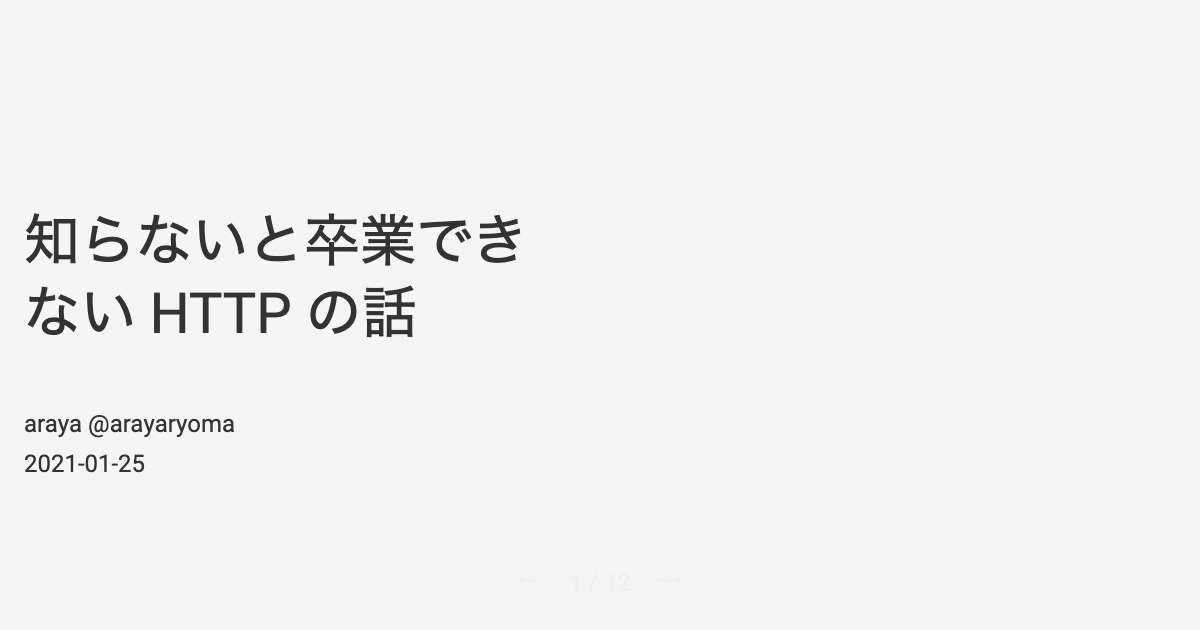
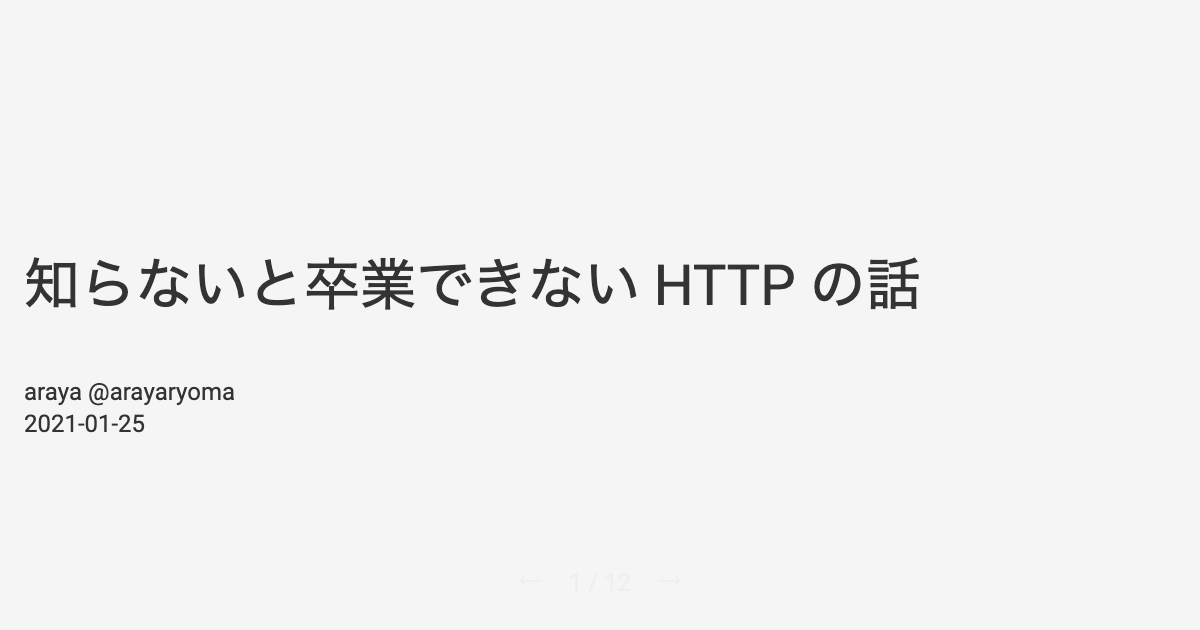
Updates

Changed region(s): [[0.0, 0.3317, 0.7708, 0.5429], [0.0, 0.6032, 0.2158, 0.6937], [0.0, 0.7238, 0.1233, 0.754]]

diff --git a/main.f50adb57fa4b0c32ecf3.bundle.js b/main.f50adb57fa4b0c32ecf3.bundle.js
@@ -1,0 +1,1 @@
+(self.webpackChunkonoue_lab_2020=self.webpackChunkonoue_lab_2020||[]).push([[179],{8344:(t,e,l)=>{"use strict";l.r(e),l.d(e,{default:()=>o,fusumaProps:()=>m,slides:()=>k});var a=l(7401),r=function(t){var e,l;return a.createElement("figure",{style:{maxWidth:null!==(e=t.width)&&void 0!==e?e:"100%",height:null!==(l=t.height)&&void 0!==l?l:"auto",margin:"center"===t.position?"0 auto":"0"}},a.createElement("img",{src:t.src,alt:t.alt}),t.caption&&a.createElement("figcaption",null,t.caption))},n=l(9332);function p(t,e){if(null==t)return{};var l,a,r=function(t,e){if(null==t)return{};var l,a,r={},n=Object.keys(t);for(a=0;a<n.length;a++)l=n[a],e.indexOf(l)>=0||(r[l]=t[l]);return r}(t,e);if(Object.getOwnPropertySymbols){var n=Object.getOwnPropertySymbols(t);for(a=0;a<n.length;a++)l=n[a],e.indexOf(l)>=0||Object.prototype.propertyIsEnumerable.call(t,l)&&(r[l]=t[l])}return r}function i(t,e,l){return e in t?Object.defineProperty(t,e,{value:l,enumerable:!0,configurable:!0,writable:!0}):t[e]=l,t}function u(){return(u=Object.assign||function(t){for(var e=1;e<arguments.length;e++){var l=arguments[e];for(var a in l)Object.prototype.hasOwnProperty.call(l,a)&&(t[a]=l[a])}return t}).apply(this,arguments)}var k=[function(t){return(0,n.kt)(a.Fragment,null,(0,n.kt)("h1",null,"知らないと卒業できない HTTP の話"),(0,n.kt)("p",null,"araya @arayaryoma"),(0,n.kt)("p",null,"2021-01-25"))},function(t){return(0,n.kt)(a.Fragment,null,(0,n.kt)("h2",null,"自己紹介"),(0,n.kt)("p",null,(0,n.kt)("img",{src:"https://araya.dev/assets/purple-cat.png"})),(0,n.kt)("p",null,"araya"),(0,n.kt)("ul",null,(0,n.kt)("li",{parentName:"ul"},"Twitter: ",(0,n.kt)("a",u({parentName:"li"},{href:"https://twitter.com/arayaryoma"}),"@arayaryoma")),(0,n.kt)("li",{parentName:"ul"},"GitHub: ",(0,n.kt)("a",u({parentName:"li"},{href:"https://github.com/arayaryoma"}),"@arayaryoma")),(0,n.kt)("li",{parentName:"ul"},"職業: 報道・出版系の会社で Web エンジニア")))},function(t){return(0,n.kt)(a.Fragment,null,(0,n.kt)("h2",null,"なんで来たの？"),(0,n.kt)("p",null,"視聴だけするつもりだったけど召喚されました。 😈🔯"),(0,n.kt)("p",null,"5 分で HTTP とは何かみたいな話をします。"),(0,n.kt)("p",null,"卒業と関係するかどうかは尾上さんに聞いてください(多分しない)。"),(0,n.kt)(r,i({src:l(933),caption:"ゆるゆるな発表者登録のシステム",mdxType:"Figure"},"mdxType","Figure")),(0,n.kt)("p",null,"特に物は作ってないので講義っぽくなっちゃった。ごめんなさい。"))},function(t){return(0,n.kt)(a.Fragment,null,(0,n.kt)("h2",null,"HTTP って？"),(0,n.kt)("p",null,"Hyper Text Transfer Protocol。 Web におけるクライアント-サーバー間のリクエスト/レスポンスのやり取りで主に用いられる",(0,n.kt)("strong",{parentName:"p"},"通信プロトコル"),"。"),(0,n.kt)("h3",null,"プロトコル(Protocol)"),(0,n.kt)("p",null,"やりとりを行うもの同士が確実に必要な手続きを行うための、手順や方法の",(0,n.kt)("strong",{parentName:"p"},"規約")),(0,n.kt)("p",null,"HTTP があるおかげで、"),(0,n.kt)("ul",null,(0,n.kt)("li",{parentName:"ul"},"サーバーはクライアントが何を要求してるか知ることができ"),(0,n.kt)("li",{parentName:"ul"},"クライアントはサーバーから送られてきたデータを理解することができる")),(0,n.kt)(r,i({src:l(5927),caption:"HTTPでのリソースのやり取り",width:"50%",position:"center",mdxType:"Figure"},"mdxType","Figure")))},function(t){return(0,n.kt)(a.Fragment,null,(0,n.kt)("h2",null,"プロトコルのスタック"),(0,n.kt)("ul",null,(0,n.kt)("li",{parentName:"ul"},"コンピューター同士の通信は最終的には電気信号など、物理的に通信相手に伝えるられるものになる。"),(0,n.kt)("li",{parentName:"ul"},"コンピューターではもちろん HTTP 以外の通信プロトコルも扱える。"),(0,n.kt)("li",{parentName:"ul"},"プロトコルは階層構造を持つ。"),(0,n.kt)("li",{parentName:"ul"},"送信者はデータをプロトコルで決められたルールで作り、それを更に低い階層で繰り返していく。"),(0,n.kt)("li",{parentName:"ul"},"受信者はその逆に、プロトコルで決められたルールでデータを取り出していく。"),(0,n.kt)("li",{parentName:"ul"},"「",(0,n.kt)("strong",{parentName:"li"},"OSI 参照モデル"),"」 で調べてね！",(0,n.kt)("ul",{parentName:"li"},(0,n.kt)("li",{parentName:"ul"},"🪓🐼「聞いたことがないはずがない」(半分発表者の空想でありフィクション)")))),(0,n.kt)(r,i({src:l(5860),caption:"プロトコルの階層構造のイメージ",width:"50%",position:"center",mdxType:"Figure"},"mdxType","Figure")))},function(t){return(0,n.kt)(a.Fragment,null,(0,n.kt)("h2",null,"プロトコルがないと..."),(0,n.kt)("p",null,"サーバーはクライアントからなにかデータが送られてきても、それがどういう意味を持つのか理解ができない。"),(0,n.kt)("p",null,"もっと低いレイヤーでみると、何らかしらの信号が送られてきてもそれが何であるか理解ができない。"),(0,n.kt)(r,i({src:l(6583),caption:"プロトコルがないとクライアントとサーバーは会話ができない",width:"50%",position:"center",mdxType:"Figure"},"mdxType","Figure")))},function(t){return(0,n.kt)(a.Fragment,null,(0,n.kt)("h2",null,"HTTP の仕様は誰が決めている？"),(0,n.kt)("p",null,(0,n.kt)("strong",{parentName:"p"},"IETF (Internet Engineering Task Force)")),(0,n.kt)("ul",null,(0,n.kt)("li",{parentName:"ul"},"HTTP や TCP など、インターネットに関する様々な技術の標準化に取り組む団体"),(0,n.kt)("li",{parentName:"ul"},"新しいプロトコルがでるとまずは Draft という形で公開される"),(0,n.kt)("li",{parentName:"ul"},"設計上の問題点の解消や、必要な議論やレビュー、実装が一通りまとまると",(0,n.kt)("strong",{parentName:"li"},"RFC(Request For Comments)"),"という形で公開される",(0,n.kt)("ul",{parentName:"li"},(0,n.kt)("li",{parentName:"ul"},"例: RFC7230(HTTP/1.1), RFC7231(HTTP Semantics and Content), RFC7540(HTTP/2)"),(0,n.kt)("li",{parentName:"ul"},"HTTP に関連する RFC がまとまっているページ: ",(0,n.kt)("a",u({parentName:"li"},{href:"https://httpwg.org/specs/"}),"https://httpwg.org/specs/")))),(0,n.kt)("li",{parentName:"ul"},"一度出た RFC が同じ番号のまま更新されることはない。"),(0,n.kt)("li",{parentName:"ul"},"RFC に問題があり更新の必要があるときは新しい(別の番号が振られた) RFC として公開される。(たとえ 1 文字の typo 修正であろうと)")))},function(t){return(0,n.kt)(a.Fragment,null,(0,n.kt)("h2",null,"HTTP も改善が続けられている"),(0,n.kt)("ul",null,(0,n.kt)("li",{parentName:"ul"},"HTTP/0.9",(0,n.kt)("ul",{parentName:"li"},(0,n.kt)("li",{parentName:"ul"},"HTTP の最初のバージョン。1.0 が出たとことで相対的に 0.9 と呼ばれるようになった。"))),(0,n.kt)("li",{parentName:"ul"},"HTTP/1.0",(0,n.kt)("ul",{parentName:"li"},(0,n.kt)("li",{parentName:"ul"},"1996 年 ",(0,n.kt)("a",u({parentName:"li"},{href:"https://tools.ietf.org/html/rfc1945"}),"RFC1945")))),(0,n.kt)("li",{parentName:"ul"},(0,n.kt)("strong",{parentName:"li"},"HTTP/1.1"),(0,n.kt)("ul",{parentName:"li"},(0,n.kt)("li",{parentName:"ul"},"1997 年",(0,n.kt)("a",u({parentName:"li"},{href:"https://tools.ietf.org/html/rfc2068"}),"RFC2068")),(0,n.kt)("li",{parentName:"ul"},"最新の RFC は 2014 年 ",(0,n.kt)("a",u({parentName:"li"},{href:"https://tools.ietf.org/html/rfc7235"}),"RFC7235")))),(0,n.kt)("li",{parentName:"ul"},(0,n.kt)("strong",{parentName:"li"},"HTTP/2"),(0,n.kt)("ul",{parentName:"li"},(0,n.kt)("li",{parentName:"ul"},"2015 年 ",(0,n.kt)("a",u({parentName:"li"},{href:"https://tools.ietf.org/html/rfc7540"}),"RFC7540")))),(0,n.kt)("li",{parentName:"ul"},(0,n.kt)("strong",{parentName:"li"},"HTTP/3 (over QUIC)"),(0,n.kt)("ul",{parentName:"li"},(0,n.kt)("li",{parentName:"ul"},"2021 年 1 月 25 日現在は",(0,n.kt)("a",u({parentName:"li"},{href:"https://tools.ietf.org/html/draft-ietf-quic-http-33"}),"Draft")),(0,n.kt)("li",{parentName:"ul"},"もうすぐ RFC 📣"))),(0,n.kt)("li",{parentName:"ul"},(0,n.kt)("strong",{parentName:"li"},"HTTPS (over TLS)"),(0,n.kt)("ul",{parentName:"li"},(0,n.kt)("li",{parentName:"ul"},"2000 年 ",(0,n.kt)("a",u({parentName:"li"},{href:"https://tools.ietf.org/html/rfc2818"}),"RFC2818")),(0,n.kt)("li",{parentName:"ul"},"TLS の上で HTTP を使うことにより通信を Secure に")))))},function(t){return(0,n.kt)(a.Fragment,null,(0,n.kt)("h2",null,"HTTP? HTTPS?"),(0,n.kt)("ul",null,(0,n.kt)("li",{parentName:"ul"},"TLS という暗号化の仕組みをつかうことによって、HTTP で送受信されるデータは通信経路上で暗号化されている。",(0,n.kt)("ul",{parentName:"li"},(0,n.kt)("li",{parentName:"ul"},'"SSL" は TLS の昔の名称。SSL のバージョンアップを続けるうち、TLS という名称に変更になった。'))),(0,n.kt)("li",{parentName:"ul"},"第三者による",(0,n.kt)("strong",{parentName:"li"},"内容の盗聴"),"や",(0,n.kt)("strong",{parentName:"li"},"改ざんされた情報の受信"),"を防止することができる。"),(0,n.kt)("li",{parentName:"ul"},(0,n.kt)("strong",{parentName:"li"},"閲覧している Web サイトそのものの安全性、Web サイト提供者の信頼性を担保するものではない"))),(0,n.kt)("div",{style:{display:"flex"}},(0,n.kt)(r,i({src:l(1210),caption:"暗号化なしでの通信",width:"50%",mdxType:"Figure"},"mdxType","Figure")),(0,n.kt)(r,i({src:l(8701),caption:"暗号化ありでの通信",width:"50%",mdxType:"Figure"},"mdxType","Figure"))))},function(t){return(0,n.kt)(a.Fragment,null,(0,n.kt)("h2",null,"HTTP 上でやり取りされるデータ"),(0,n.kt)("ul",null,(0,n.kt)("li",{parentName:"ul"},(0,n.kt)("p",{parentName:"li"},"仕様で決められたフォーマットに乗っ取り、status, header, body を送信する")),(0,n.kt)("li",{parentName:"ul"},(0,n.kt)("p",{parentName:"li"},(0,n.kt)("a",u({parentName:"p"},{href:"https://example.com"}),"https://example.com")," をブラウザで開き、開発者ツールのネットワークツールをみると、シンプルなサイトでも意外に多くの Request header / Response header が送られきていることが分かる。"),(0,n.kt)("ul",{parentName:"li"},(0,n.kt)("li",{parentName:"ul"},"🪓🐼「全部説明できますか？」(発表者の空想でありフィクション)")))),(0,n.kt)(r,i({src:l(5778),width:"50%",mdxType:"Figure"},"mdxType","Figure")))},function(t){return(0,n.kt)(a.Fragment,null,(0,n.kt)("h2",null,"HTTP への興味が湧いたら"),(0,n.kt)("ul",null,(0,n.kt)("li",{parentName:"ul"},(0,n.kt)("p",{parentName:"li"},"個人的にまずおすすめしたい読み物はこれ"),(0,n.kt)("ul",{parentName:"li"},(0,n.kt)("li",{parentName:"ul"},"Real World HTTP 第 2 版 ―歴史とコードに学ぶインターネットとウェブ技術 ",(0,n.kt)("a",u({parentName:"li"},{href:"https://www.amazon.co.jp/dp/4873119030/"}),"https://www.amazon.co.jp/dp/4873119030/")))),(0,n.kt)("li",{parentName:"ul"},(0,n.kt)("p",{parentName:"li"},"その次は RFC を読んでみよう！"),(0,n.kt)("ul",{parentName:"li"},(0,n.kt)("li",{parentName:"ul"},"HTTP 関連の RFC まとめ: ",(0,n.kt)("a",u({parentName:"li"},{href:"https://httpwg.org/specs/"}),"https://httpwg.org/specs/")),(0,n.kt)("li",{parentName:"ul"},"日本語訳(非公式): ",(0,n.kt)("a",u({parentName:"li"},{href:"https://triple-underscore.github.io/http-common-ja.html"}),"https://triple-underscore.github.io/http-common-ja.html"),(0,n.kt)("div",{style:{display:"flex"}},(0,n.kt)(r,i({src:"https://images-na.ssl-images-amazon.com/images/I/410dLLOwxaL._SX389_BO1,204,203,200_.jpg",mdxType:"Figure"},"mdxType","Figure")),(0,n.kt)(r,i({src:l(93),width:"480px",mdxType:"Figure"},"mdxType","Figure"))))))))},function(t){return(0,n.kt)(a.Fragment,null,(0,n.kt)("h2",null,"おわり"),(0,n.kt)("p",null,"ありがとうございました。"),(0,n.kt)("p",null,"皆様の楽しい学生生活と無事に修了することを応援しています 👏"))}],m=[{classes:"title flex-left"},{classes:"title flex-left"},{classes:"title flex-left"},{classes:"flex-left"},{classes:"flex-left"},{classes:"title flex-left"},{classes:"title flex-left"},{classes:"title flex-left"},{classes:"title flex-left"},{classes:"flex-left"},{classes:"flex-left"},{}],s={};function o(t){var e=t.components,a=p(t,["components"]);return(0,n.kt)("wrapper",u({},s,a,{components:e,mdxType:"MDXLayout"}),(0,n.kt)("h1",null,"知らないと卒業できない HTTP の話"),(0,n.kt)("p",null,"araya @arayaryoma"),(0,n.kt)("p",null,"2021-01-25"),(0,n.kt)("hr",null),(0,n.kt)("h2",null,"自己紹介"),(0,n.kt)("p",null,(0,n.kt)("img",{src:"https://araya.dev/assets/purple-cat.png"})),(0,n.kt)("p",null,"araya"),(0,n.kt)("ul",null,(0,n.kt)("li",{parentName:"ul"},"Twitter: ",(0,n.kt)("a",u({parentName:"li"},{href:"https://twitter.com/arayaryoma"}),"@arayaryoma")),(0,n.kt)("li",{parentName:"ul"},"GitHub: ",(0,n.kt)("a",u({parentName:"li"},{href:"https://github.com/arayaryoma"}),"@arayaryoma")),(0,n.kt)("li",{parentName:"ul"},"職業: 報道・出版系の会社で Web エンジニア")),(0,n.kt)("hr",null),(0,n.kt)("h2",null,"なんで来たの？"),(0,n.kt)("p",null,"視聴だけするつもりだったけど召喚されました。 😈🔯"),(0,n.kt)("p",null,"5 分で HTTP とは何かみたいな話をします。"),(0,n.kt)("p",null,"卒業と関係するかどうかは尾上さんに聞いてください(多分しない)。"),(0,n.kt)(r,{src:l(933),caption:"ゆるゆるな発表者登録のシステム",mdxType:"Figure"}),(0,n.kt)("p",null,"特に物は作ってないので講義っぽくなっちゃった。ごめんなさい。"),(0,n.kt)("hr",null),(0,n.kt)("h2",null,"HTTP って？"),(0,n.kt)("p",null,"Hyper Text Transfer Protocol。 Web におけるクライアント-サーバー間のリクエスト/レスポンスのやり取りで主に用いられる",(0,n.kt)("strong",{parentName:"p"},"通信プロトコル"),"。"),(0,n.kt)("h3",null,"プロトコル(Protocol)"),(0,n.kt)("p",null,"やりとりを行うもの同士が確実に必要な手続きを行うための、手順や方法の",(0,n.kt)("strong",{parentName:"p"},"規約")),(0,n.kt)("p",null,"HTTP があるおかげで、"),(0,n.kt)("ul",null,(0,n.kt)("li",{parentName:"ul"},"サーバーはクライアントが何を要求してるか知ることができ"),(0,n.kt)("li",{parentName:"ul"},"クライアントはサーバーから送られてきたデータを理解することができる")),(0,n.kt)(r,{src:l(5927),caption:"HTTPでのリソースのやり取り",width:"50%",position:"center",mdxType:"Figure"}),(0,n.kt)("hr",null),(0,n.kt)("h2",null,"プロトコルのスタック"),(0,n.kt)("ul",null,(0,n.kt)("li",{parentName:"ul"},"コンピューター同士の通信は最終的には電気信号など、物理的に通信相手に伝えるられるものになる。"),(0,n.kt)("li",{parentName:"ul"},"コンピューターではもちろん HTTP 以外の通信プロトコルも扱える。"),(0,n.kt)("li",{parentName:"ul"},"プロトコルは階層構造を持つ。"),(0,n.kt)("li",{parentName:"ul"},"送信者はデータをプロトコルで決められたルールで作り、それを更に低い階層で繰り返していく。"),(0,n.kt)("li",{parentName:"ul"},"受信者はその逆に、プロトコルで決められたルールでデータを取り出していく。"),(0,n.kt)("li",{parentName:"ul"},"「",(0,n.kt)("strong",{parentName:"li"},"OSI 参照モデル"),"」 で調べてね！",(0,n.kt)("ul",{parentName:"li"},(0,n.kt)("li",{parentName:"ul"},"🪓🐼「聞いたことがないはずがない」(半分発表者の空想でありフィクション)")))),(0,n.kt)(r,{src:l(5860),caption:"プロトコルの階層構造のイメージ",width:"50%",position:"center",mdxType:"Figure"}),(0,n.kt)("hr",null),(0,n.kt)("h2",null,"プロトコルがないと..."),(0,n.kt)("p",null,"サーバーはクライアントからなにかデータが送られてきても、それがどういう意味を持つのか理解ができない。"),(0,n.kt)("p",null,"もっと低いレイヤーでみると、何らかしらの信号が送られてきてもそれが何であるか理解ができない。"),(0,n.kt)(r,{src:l(6583),caption:"プロトコルがないとクライアントとサーバーは会話ができない",width:"50%",position:"center",mdxType:"Figure"}),(0,n.kt)("hr",null),(0,n.kt)("h2",null,"HTTP の仕様は誰が決めている？"),(0,n.kt)("p",null,(0,n.kt)("strong",{parentName:"p"},"IETF (Internet Engineering Task Force)")),(0,n.kt)("ul",null,(0,n.kt)("li",{parentName:"ul"},"HTTP や TCP など、インターネットに関する様々な技術の標準化に取り組む団体"),(0,n.kt)("li",{parentName:"ul"},"新しいプロトコルがでるとまずは Draft という形で公開される"),(0,n.kt)("li",{parentName:"ul"},"設計上の問題点の解消や、必要な議論やレビュー、実装が一通りまとまると",(0,n.kt)("strong",{parentName:"li"},"RFC(Request For Comments)"),"という形で公開される",(0,n.kt)("ul",{parentName:"li"},(0,n.kt)("li",{parentName:"ul"},"例: RFC7230(HTTP/1.1), RFC7231(HTTP Semantics and Content), RFC7540(HTTP/2)"),(0,n.kt)("li",{parentName:"ul"},"HTTP に関連する RFC がまとまっているページ: ",(0,n.kt)("a",u({parentName:"li"},{href:"https://httpwg.org/specs/"}),"https://httpwg.org/specs/")))),(0,n.kt)("li",{parentName:"ul"},"一度出た RFC が同じ番号のまま更新されることはない。"),(0,n.kt)("li",{parentName:"ul"},"RFC に問題があり更新の必要があるときは新しい(別の番号が振られた) RFC として公開される。(たとえ 1 文字の typo 修正であろうと)")),(0,n.kt)("hr",null),(0,n.kt)("h2",null,"HTTP も改善が続けられている"),(0,n.kt)("ul",null,(0,n.kt)("li",{parentName:"ul"},"HTTP/0.9",(0,n.kt)("ul",{parentName:"li"},(0,n.kt)("li",{parentName:"ul"},"HTTP の最初のバージョン。1.0 が出たとことで相対的に 0.9 と呼ばれるようになった。"))),(0,n.kt)("li",{parentName:"ul"},"HTTP/1.0",(0,n.kt)("ul",{parentName:"li"},(0,n.kt)("li",{parentName:"ul"},"1996 年 ",(0,n.kt)("a",u({parentName:"li"},{href:"https://tools.ietf.org/html/rfc1945"}),"RFC1945")))),(0,n.kt)("li",{parentName:"ul"},(0,n.kt)("strong",{parentName:"li"},"HTTP/1.1"),(0,n.kt)("ul",{parentName:"li"},(0,n.kt)("li",{parentName:"ul"},"1997 年",(0,n.kt)("a",u({parentName:"li"},{href:"https://tools.ietf.org/html/rfc2068"}),"RFC2068")),(0,n.kt)("li",{parentName:"ul"},"最新の RFC は 2014 年 ",(0,n.kt)("a",u({parentName:"li"},{href:"https://tools.ietf.org/html/rfc7235"}),"RFC7235")))),(0,n.kt)("li",{parentName:"ul"},(0,n.kt)("strong",{parentName:"li"},"HTTP/2"),(0,n.kt)("ul",{parentName:"li"},(0,n.kt)("li",{parentName:"ul"},"2015 年 ",(0,n.kt)("a",u({parentName:"li"},{href:"https://tools.ietf.org/html/rfc7540"}),"RFC7540")))),(0,n.kt)("li",{parentName:"ul"},(0,n.kt)("strong",{parentName:"li"},"HTTP/3 (over QUIC)"),(0,n.kt)("ul",{parentName:"li"},(0,n.kt)("li",{parentName:"ul"},"2021 年 1 月 25 日現在は",(0,n.kt)("a",u({parentName:"li"},{href:"https://tools.ietf.org/html/draft-ietf-quic-http-33"}),"Draft")),(0,n.kt)("li",{parentName:"ul"},"もうすぐ RFC 📣"))),(0,n.kt)("li",{parentName:"ul"},(0,n.kt)("strong",{parentName:"li"},"HTTPS (over TLS)"),(0,n.kt)("ul",{parentName:"li"},(0,n.kt)("li",{parentName:"ul"},"2000 年 ",(0,n.kt)("a",u({parentName:"li"},{href:"https://tools.ietf.org/html/rfc2818"}),"RFC2818")),(0,n.kt)("li",{parentName:"ul"},"TLS の上で HTTP を使うことにより通信を Secure に")))),(0,n.kt)("hr",null),(0,n.kt)("h2",null,"HTTP? HTTPS?"),(0,n.kt)("ul",null,(0,n.kt)("li",{parentName:"ul"},"TLS という暗号化の仕組みをつかうことによって、HTTP で送受信されるデータは通信経路上で暗号化されている。",(0,n.kt)("ul",{parentName:"li"},(0,n.kt)("li",{parentName:"ul"},'"SSL" は TLS の昔の名称。SSL のバージョンアップを続けるうち、TLS という名称に変更になった。'))),(0,n.kt)("li",{parentName:"ul"},"第三者による",(0,n.kt)("strong",{parentName:"li"},"内容の盗聴"),"や",(0,n.kt)("strong",{parentName:"li"},"改ざんされた情報の受信"),"を防止することができる。"),(0,n.kt)("li",{parentName:"ul"},(0,n.kt)("strong",{parentName:"li"},"閲覧している Web サイトそのものの安全性、Web サイト提供者の信頼性を担保するものではない"))),(0,n.kt)("div",{style:{display:"flex"}},(0,n.kt)(r,{src:l(1210),caption:"暗号化なしでの通信",width:"50%",mdxType:"Figure"}),(0,n.kt)(r,{src:l(8701),caption:"暗号化ありでの通信",width:"50%",mdxType:"Figure"})),(0,n.kt)("hr",null),(0,n.kt)("h2",null,"HTTP 上でやり取りされるデータ"),(0,n.kt)("ul",null,(0,n.kt)("li",{parentName:"ul"},(0,n.kt)("p",{parentName:"li"},"仕様で決められたフォーマットに乗っ取り、status, header, body を送信する")),(0,n.kt)("li",{parentName:"ul"},(0,n.kt)("p",{parentName:"li"},(0,n.kt)("a",u({parentName:"p"},{href:"https://example.com"}),"https://example.com")," をブラウザで開き、開発者ツールのネットワークツールをみると、シンプルなサイトでも意外に多くの Request header / Response header が送られきていることが分かる。"),(0,n.kt)("ul",{parentName:"li"},(0,n.kt)("li",{parentName:"ul"},"🪓🐼「全部説明できますか？」(発表者の空想でありフィクション)")))),(0,n.kt)(r,{src:l(5778),width:"50%",mdxType:"Figure"}),(0,n.kt)("hr",null),(0,n.kt)("h2",null,"HTTP への興味が湧いたら"),(0,n.kt)("ul",null,(0,n.kt)("li",{parentName:"ul"},(0,n.kt)("p",{parentName:"li"},"個人的にまずおすすめしたい読み物はこれ"),(0,n.kt)("ul",{parentName:"li"},(0,n.kt)("li",{parentName:"ul"},"Real World HTTP 第 2 版 ―歴史とコードに学ぶインターネットとウェブ技術 ",(0,n.kt)("a",u({parentName:"li"},{href:"https://www.amazon.co.jp/dp/4873119030/"}),"https://www.amazon.co.jp/dp/4873119030/")))),(0,n.kt)("li",{parentName:"ul"},(0,n.kt)("p",{parentName:"li"},"その次は RFC を読んでみよう！"),(0,n.kt)("ul",{parentName:"li"},(0,n.kt)("li",{parentName:"ul"},"HTTP 関連の RFC まとめ: ",(0,n.kt)("a",u({parentName:"li"},{href:"https://httpwg.org/specs/"}),"https://httpwg.org/specs/")),(0,n.kt)("li",{parentName:"ul"},"日本語訳(非公式): ",(0,n.kt)("a",u({parentName:"li"},{href:"https://triple-underscore.github.io/http-common-ja.html"}),"https://triple-underscore.github.io/http-common-ja.html"),(0,n.kt)("div",{style:{display:"flex"}},(0,n.kt)(r,{src:"https://images-na.ssl-images-amazon.com/images/I/410dLLOwxaL._SX389_BO1,204,203,200_.jpg",mdxType:"Figure"}),(0,n.kt)(r,{src:l(93),width:"480px",mdxType:"Figure"})))))),(0,n.kt)("hr",null),(0,n.kt)("h2",null,"おわり"),(0,n.kt)("p",null,"ありがとうございました。"),(0,n.kt)("p",null,"皆様の楽しい学生生活と無事に修了することを応援しています 👏"))}o.isMDXComponent=!0},3631:(t,e,l)=>{"use strict";l.d(e,{Z:()=>n});var a=l(8814),r=l.n(a)()((function(t){return t[1]}));r.push([t.id,"// extracted by mini-css-extract-plugin\nexport {};",""]);const n=r},928:(t,e,l)=>{"use strict";l.r(e),l.d(e,{default:()=>i});var a=l(3379),r=l.n(a),n=l(3631),p={insert:"head",singleton:!1};r()(n.Z,p);const i=n.Z.locals||{}},5927:(t,e,l)=>{"use strict";t.exports=l.p+"9b52507ba0d26618df2a.webp"},6583:(t,e,l)=>{"use strict";t.exports=l.p+"f3a0a545892da832e940.webp"},5860:(t,e,l)=>{"use strict";t.exports=l.p+"045936d2d2946796af94.webp"},933:(t,e,l)=>{"use strict";t.exports=l.p+"288a95a9f4ee25ed4f3b.webp"},93:(t,e,l)=>{"use strict";t.exports=l.p+"5dd7fc53c6532436f295.webp"},8701:(t,e,l)=>{"use strict";t.exports=l.p+"4e6ff67073c97cf6ca1a.webp"},1210:(t,e,l)=>{"use strict";t.exports=l.p+"83d1e0e9d77c79849bf2.webp"},5778:(t,e,l)=>{"use strict";t.exports=l.p+"6450aa9ccadeb4f2d584.webp"},3447:(t,e,l)=>{var a={"./0-title.mdx":8344};function r(t){var e=n(t);return l(e)}function n(t){if(!l.o(a,t)){var e=new Error("Cannot find module '"+t+"'");throw e.code="MODULE_NOT_FOUND",e}return a[t]}r.keys=function(){return Object.keys(a)},r.resolve=n,t.exports=r,r.id=3447}},function(t){"use strict";var e;e=t.x,t.x=()=>{var l=e();return t.E(901),t.E(487),l}},[[7751,666,736],[6707,666,736],[9969,666,736]]]);

diff --git a/index.html b/index.html
@@ -19,11 +19,11 @@
     
     
     
-  <link href="/vendor.4ba1f45642b0233c9a98.css" rel="stylesheet"><link href="/main.b860485e25c3d8edcf11.css" rel="stylesheet"></head>
+  <link href="/vendor.4ba1f45642b0233c9a98.css" rel="stylesheet"><link href="/main.f50adb57fa4b0c32ecf3.css" rel="stylesheet"></head>
 
   <body>
     <div id="root">
-      <article id="webslides"><section class="aligncenter title content-left"><h1>知らないと卒業できない HTTP の話</h1><p>araya @arayaryoma</p><p>2021-01-25</p></section><section class="aligncenter title content-left"><h2>自己紹介</h2><p><img src="https://araya.dev/assets/purple-cat.png"/></p><p>araya</p><ul><li>Twitter: <a href="https://twitter.com/arayaryoma">@arayaryoma</a></li><li>GitHub: <a href="https://github.com/arayaryoma">@arayaryoma</a></li><li>職業: 報道・出版系の会社で Web エンジニア</li></ul></section><section class="aligncenter title content-left"><h2>なんで来たの？</h2><p>視聴だけするつもりだったけど召喚されました。 😈🔯</p><p>5 分で HTTP とは何かみたいな話をします。</p><p>卒業と関係するかどうかは尾上さんに聞いてください(多分しない)。</p><figure style="max-width:100%"><img src="/288a95a9f4ee25ed4f3b.webp"/><figcaption>ゆるゆるな発表者登録のシステム</figcaption></figure></section><section class="aligncenter content-left"><h2>HTTP って？</h2><p>Hyper Text Transfer Protocol。 Web におけるクライアント-サーバー間のリクエスト/レスポンスのやり取りで主に用いられる<strong>通信プロトコル</strong>。</p><h3>プロトコル(Protocol)</h3><p>やりとりを行うもの同士が確実に必要な手続きを行うための、手順や方法の<strong>規約</strong></p><p>HTTP があるおかげで、</p><ul><li>サーバーはクライアントが何を要求してるか知ることができ</li><li>クライアントはサーバーから送られてきたデータを理解することができる</li></ul><figure style="max-width:100%"><img src="/9b52507ba0d26618df2a.webp"/><figcaption>HTTPでのリソースのやり取り</figcaption></figure></section><section class="aligncenter content-left"><h2>プロトコルのスタック</h2><ul><li>コンピューター同士の通信は最終的には電気信号など、物理的に通信相手に伝えるられるものになる。</li><li>コンピューターではもちろん HTTP 以外の通信プロトコルも扱える。</li><li>プロトコルは階層構造を持つ。</li><li>送信者はデータをプロトコルで決められたルールで作り、それを更に低い階層で繰り返していく。</li><li>受信者はその逆に、プロトコルで決められたルールでデータを取り出していく。</li><li>「<strong>OSI 参照モデル</strong>」 で調べてね！<ul><li>🪓🐼「聞いたことがないはずがない」(半分発表者の空想でありフィクション)</li></ul></li></ul><figure style="max-width:100%"><img src="/045936d2d2946796af94.webp"/><figcaption>プロトコルの階層構造のイメージ</figcaption></figure></section><section class="aligncenter title content-left"><h2>プロトコルがないと...</h2><p>サーバーはクライアントからなにかデータが送られてきても、それがどういう意味を持つのか理解ができない。</p><p>もっと低いレイヤーでみると、何らかしらの信号が送られてきてもそれが何であるか理解ができない。</p><figure style="max-width:100%"><img src="/f3a0a545892da832e940.webp"/><figcaption>プロトコルがないとクライアントとサーバーは会話ができない</figcaption></figure></section><section class="aligncenter title content-left"><h2>HTTP の仕様は誰が決めている？</h2><p><strong>IETF (Internet Engineering Task Force)</strong></p><ul><li>HTTP や TCP など、インターネットに関する様々な技術の標準化に取り組む団体</li><li>新しいプロトコルがでるとまずは Draft という形で公開される</li><li>設計上の問題点の解消や、必要な議論やレビュー、実装が一通りまとまると<strong>RFC(Request For Comments)</strong>という形で公開される<ul><li>例: RFC7230(HTTP/1.1), RFC7231(HTTP Semantics and Content), RFC7540(HTTP/2)</li><li>HTTP に関連する RFC がまとまっているページ: <a href="https://httpwg.org/specs/">https://httpwg.org/specs/</a></li></ul></li><li>一度出た RFC が同じ番号のまま更新されることはない。</li><li>RFC に問題があり更新の必要があるときは新しい(別の番号が振られた) RFC として公開される。(たとえ 1 文字の typo 修正であろうと)</li></ul></section><section class="aligncenter title content-left"><h2>HTTP も改善が続けられている</h2><ul><li>HTTP/0.9<ul><li>HTTP の最初のバージョン。1.0 が出たとことで相対的に 0.9 と呼ばれるようになった。</li></ul></li><li>HTTP/1.0<ul><li>1996 年 <a href="https://tools.ietf.org/html/rfc1945">RFC1945</a></li></ul></li><li><strong>HTTP/1.1</strong><ul><li>1997 年<a href="https://tools.ietf.org/html/rfc2068">RFC2068</a></li><li>最新の RFC は 2014 年 <a href="https://tools.ietf.org/html/rfc7235">RFC7235</a></li></ul></li><li><strong>HTTP/2</strong><ul><li>2015 年 <a href="https://tools.ietf.org/html/rfc7540">RFC7540</a></li></ul></li><li><strong>HTTP/3 (over QUIC)</strong><ul><li>2021 年 1 月 25 日現在は<a href="https://tools.ietf.org/html/draft-ietf-quic-http-33">Draft</a></li><li>もうすぐ RFC 📣</li></ul></li><li><strong>HTTPS (over TLS)</strong><ul><li>2000 年 <a href="https://tools.ietf.org/html/rfc2818">RFC2818</a></li><li>TLS の上で HTTP を使うことにより通信を Secure に</li></ul></li></ul></section><section class="aligncenter title content-left"><h2>HTTP? HTTPS?</h2><ul><li>TLS という暗号化の仕組みをつかうことによって、HTTP で送受信されるデータは通信経路上で暗号化されている。<ul><li>&quot;SSL&quot; は TLS の昔の名称。SSL のバージョンアップを続けるうち、TLS という名称に変更になった。</li></ul></li><li>第三者による<strong>内容の盗聴</strong>や<strong>改ざんされた情報の受信</strong>を防止することができる。</li><li><strong>閲覧している Web サイトそのものの安全性、Web サイト提供者の信頼性を担保するものではない</strong></li></ul><div style="display:flex"><figure style="max-width:50%"><img src="/83d1e0e9d77c79849bf2.webp"/><figcaption>暗号化なしでの通信</figcaption></figure><figure style="max-width:50%"><img src="/4e6ff67073c97cf6ca1a.webp"/><figcaption>暗号化ありでの通信</figcaption></figure></div></section><section class="aligncenter content-left"><h2>HTTP 上でやり取りされるデータ</h2><ul><li><p>仕様で決められたフォーマットに乗っ取り、status, header, body を送信する</p></li><li><p><a href="https://example.com">https://example.com</a> をブラウザで開き、開発者ツールのネットワークツールをみると、シンプルなサイトでも意外に多くの Request header / Response header が送られきていることが分かる。</p><ul><li>🐼「全部説明できますか？」(発表者の空想でありフィクション)</li></ul></li></ul><figure style="max-width:50%"><img src="/6450aa9ccadeb4f2d584.webp"/></figure></section><section class="aligncenter content-left"><h2>HTTP への興味が湧いたら</h2><ul><li>個人的にまずおすすめしたい読み物はこれ<ul><li>Real World HTTP 第 2 版 ―歴史とコードに学ぶインターネットとウェブ技術 <a href="htps://www.amazon.co.jp/dp/4873119030/">htps://www.amazon.co.jp/dp/4873119030/</a></li></ul></li><li>その次は RFC を読んでみよう！<ul><li>HTTP 関連の RFC まとめ: <a href="https://httpwg.org/specs/">https://httpwg.org/specs/</a></li><li>日本語訳(非公式): <a href="https://triple-underscore.github.io/http-common-ja.html">https://triple-underscore.github.io/http-common-ja.html</a></li></ul></li></ul></section><section class="aligncenter"><h2>おわり</h2><p>ありがとうございました。</p><p>皆様の楽しい学生生活と無事に修了することを応援しています 👏</p></section></article>
+      <article id="webslides"><section class="aligncenter title flex-left"><h1>知らないと卒業できない HTTP の話</h1><p>araya @arayaryoma</p><p>2021-01-25</p></section><section class="aligncenter title flex-left"><h2>自己紹介</h2><p><img src="https://araya.dev/assets/purple-cat.png"/></p><p>araya</p><ul><li>Twitter: <a href="https://twitter.com/arayaryoma">@arayaryoma</a></li><li>GitHub: <a href="https://github.com/arayaryoma">@arayaryoma</a></li><li>職業: 報道・出版系の会社で Web エンジニア</li></ul></section><section class="aligncenter title flex-left"><h2>なんで来たの？</h2><p>視聴だけするつもりだったけど召喚されました。 😈🔯</p><p>5 分で HTTP とは何かみたいな話をします。</p><p>卒業と関係するかどうかは尾上さんに聞いてください(多分しない)。</p><figure style="max-width:100%;height:auto;margin:0"><img src="/288a95a9f4ee25ed4f3b.webp"/><figcaption>ゆるゆるな発表者登録のシステム</figcaption></figure><p>特に物は作ってないので講義っぽくなっちゃった。ごめんなさい。</p></section><section class="aligncenter flex-left"><h2>HTTP って？</h2><p>Hyper Text Transfer Protocol。 Web におけるクライアント-サーバー間のリクエスト/レスポンスのやり取りで主に用いられる<strong>通信プロトコル</strong>。</p><h3>プロトコル(Protocol)</h3><p>やりとりを行うもの同士が確実に必要な手続きを行うための、手順や方法の<strong>規約</strong></p><p>HTTP があるおかげで、</p><ul><li>サーバーはクライアントが何を要求してるか知ることができ</li><li>クライアントはサーバーから送られてきたデータを理解することができる</li></ul><figure style="max-width:50%;height:auto;margin:0 auto"><img src="/9b52507ba0d26618df2a.webp"/><figcaption>HTTPでのリソースのやり取り</figcaption></figure></section><section class="aligncenter flex-left"><h2>プロトコルのスタック</h2><ul><li>コンピューター同士の通信は最終的には電気信号など、物理的に通信相手に伝えるられるものになる。</li><li>コンピューターではもちろん HTTP 以外の通信プロトコルも扱える。</li><li>プロトコルは階層構造を持つ。</li><li>送信者はデータをプロトコルで決められたルールで作り、それを更に低い階層で繰り返していく。</li><li>受信者はその逆に、プロトコルで決められたルールでデータを取り出していく。</li><li>「<strong>OSI 参照モデル</strong>」 で調べてね！<ul><li>🪓🐼「聞いたことがないはずがない」(半分発表者の空想でありフィクション)</li></ul></li></ul><figure style="max-width:50%;height:auto;margin:0 auto"><img src="/045936d2d2946796af94.webp"/><figcaption>プロトコルの階層構造のイメージ</figcaption></figure></section><section class="aligncenter title flex-left"><h2>プロトコルがないと...</h2><p>サーバーはクライアントからなにかデータが送られてきても、それがどういう意味を持つのか理解ができない。</p><p>もっと低いレイヤーでみると、何らかしらの信号が送られてきてもそれが何であるか理解ができない。</p><figure style="max-width:50%;height:auto;margin:0 auto"><img src="/f3a0a545892da832e940.webp"/><figcaption>プロトコルがないとクライアントとサーバーは会話ができない</figcaption></figure></section><section class="aligncenter title flex-left"><h2>HTTP の仕様は誰が決めている？</h2><p><strong>IETF (Internet Engineering Task Force)</strong></p><ul><li>HTTP や TCP など、インターネットに関する様々な技術の標準化に取り組む団体</li><li>新しいプロトコルがでるとまずは Draft という形で公開される</li><li>設計上の問題点の解消や、必要な議論やレビュー、実装が一通りまとまると<strong>RFC(Request For Comments)</strong>という形で公開される<ul><li>例: RFC7230(HTTP/1.1), RFC7231(HTTP Semantics and Content), RFC7540(HTTP/2)</li><li>HTTP に関連する RFC がまとまっているページ: <a href="https://httpwg.org/specs/">https://httpwg.org/specs/</a></li></ul></li><li>一度出た RFC が同じ番号のまま更新されることはない。</li><li>RFC に問題があり更新の必要があるときは新しい(別の番号が振られた) RFC として公開される。(たとえ 1 文字の typo 修正であろうと)</li></ul></section><section class="aligncenter title flex-left"><h2>HTTP も改善が続けられている</h2><ul><li>HTTP/0.9<ul><li>HTTP の最初のバージョン。1.0 が出たとことで相対的に 0.9 と呼ばれるようになった。</li></ul></li><li>HTTP/1.0<ul><li>1996 年 <a href="https://tools.ietf.org/html/rfc1945">RFC1945</a></li></ul></li><li><strong>HTTP/1.1</strong><ul><li>1997 年<a href="https://tools.ietf.org/html/rfc2068">RFC2068</a></li><li>最新の RFC は 2014 年 <a href="https://tools.ietf.org/html/rfc7235">RFC7235</a></li></ul></li><li><strong>HTTP/2</strong><ul><li>2015 年 <a href="https://tools.ietf.org/html/rfc7540">RFC7540</a></li></ul></li><li><strong>HTTP/3 (over QUIC)</strong><ul><li>2021 年 1 月 25 日現在は<a href="https://tools.ietf.org/html/draft-ietf-quic-http-33">Draft</a></li><li>もうすぐ RFC 📣</li></ul></li><li><strong>HTTPS (over TLS)</strong><ul><li>2000 年 <a href="https://tools.ietf.org/html/rfc2818">RFC2818</a></li><li>TLS の上で HTTP を使うことにより通信を Secure に</li></ul></li></ul></section><section class="aligncenter title flex-left"><h2>HTTP? HTTPS?</h2><ul><li>TLS という暗号化の仕組みをつかうことによって、HTTP で送受信されるデータは通信経路上で暗号化されている。<ul><li>&quot;SSL&quot; は TLS の昔の名称。SSL のバージョンアップを続けるうち、TLS という名称に変更になった。</li></ul></li><li>第三者による<strong>内容の盗聴</strong>や<strong>改ざんされた情報の受信</strong>を防止することができる。</li><li><strong>閲覧している Web サイトそのものの安全性、Web サイト提供者の信頼性を担保するものではない</strong></li></ul><div style="display:flex"><figure style="max-width:50%;height:auto;margin:0"><img src="/83d1e0e9d77c79849bf2.webp"/><figcaption>暗号化なしでの通信</figcaption></figure><figure style="max-width:50%;height:auto;margin:0"><img src="/4e6ff67073c97cf6ca1a.webp"/><figcaption>暗号化ありでの通信</figcaption></figure></div></section><section class="aligncenter flex-left"><h2>HTTP 上でやり取りされるデータ</h2><ul><li><p>仕様で決められたフォーマットに乗っ取り、status, header, body を送信する</p></li><li><p><a href="https://example.com">https://example.com</a> をブラウザで開き、開発者ツールのネットワークツールをみると、シンプルなサイトでも意外に多くの Request header / Response header が送られきていることが分かる。</p><ul><li>🪓🐼「全部説明できますか？」(発表者の空想でありフィクション)</li></ul></li></ul><figure style="max-width:50%;height:auto;margin:0"><img src="/6450aa9ccadeb4f2d584.webp"/></figure></section><section class="aligncenter flex-left"><h2>HTTP への興味が湧いたら</h2><ul><li><p>個人的にまずおすすめしたい読み物はこれ</p><ul><li>Real World HTTP 第 2 版 ―歴史とコードに学ぶインターネットとウェブ技術 <a href="https://www.amazon.co.jp/dp/4873119030/">https://www.amazon.co.jp/dp/4873119030/</a></li></ul></li><li><p>その次は RFC を読んでみよう！</p><ul><li>HTTP 関連の RFC まとめ: <a href="https://httpwg.org/specs/">https://httpwg.org/specs/</a></li><li>日本語訳(非公式): <a href="https://triple-underscore.github.io/http-common-ja.html">https://triple-underscore.github.io/http-common-ja.html</a><div style="display:flex"><figure style="max-width:100%;height:auto;margin:0"><img src="https://images-na.ssl-images-amazon.com/images/I/410dLLOwxaL._SX389_BO1,204,203,200_.jpg"/></figure><figure style="max-width:480px;height:auto;margin:0"><img src="/5dd7fc53c6532436f295.webp"/></figure></div></li></ul></li></ul></section><section class="aligncenter"><h2>おわり</h2><p>ありがとうございました。</p><p>皆様の楽しい学生生活と無事に修了することを応援しています 👏</p></section></article>
     </div>
-  <script src="/runtime.b792f423a83b5b62f67c.bundle.js"></script><script src="/vendor.4ba1f45642b0233c9a98.bundle.js"></script><script src="/main.b860485e25c3d8edcf11.bundle.js"></script></body>
+  <script src="/runtime.bf4d75f6b1c35b108393.bundle.js"></script><script src="/vendor.4ba1f45642b0233c9a98.bundle.js"></script><script src="/main.f50adb57fa4b0c32ecf3.bundle.js"></script></body>
 </html>

diff --git a/runtime.bf4d75f6b1c35b108393.bundle.js b/runtime.bf4d75f6b1c35b108393.bundle.js
@@ -1,0 +1,1 @@
+(()=>{"use strict";var e,t,r,n,a={},o={};function d(e){if(o[e])return o[e].exports;var t=o[e]={id:e,loaded:!1,exports:{}};return a[e].call(t.exports,t,t.exports,d),t.loaded=!0,t.exports}d.m=a,d.x=e=>{},d.amdO={},d.F={},d.E=e=>{Object.keys(d.F).map((t=>{d.F[t](e)}))},d.n=e=>{var t=e&&e.__esModule?()=>e.default:()=>e;return d.d(t,{a:t}),t},d.d=(e,t)=>{for(var r in t)d.o(t,r)&&!d.o(e,r)&&Object.defineProperty(e,r,{enumerable:!0,get:t[r]})},d.f={},d.e=e=>Promise.all(Object.keys(d.f).reduce(((t,r)=>(d.f[r](e,t),t)),[])),d.u=e=>e+"."+e+"."+{258:"8b454614f2f6a02268df",487:"8dfb775319d9cc60fa4b",488:"b12f0725ccd87e3375ba",717:"d6d294835e28b0885bf1",748:"19a653253d640c90837b",818:"fca1522cf99c57430377",901:"4d96313e2b53bf699217",930:"6816c58a2bf4a3362832",946:"64e337e455cd73f6a017"}[e]+".bundle.js",d.miniCssF=e=>666===e?"runtime.undefined.css":736===e?"vendor.4ba1f45642b0233c9a98.css":179===e?"main.f50adb57fa4b0c32ecf3.css":e+"."+e+"."+{258:"8b454614f2f6a02268df",487:"8dfb775319d9cc60fa4b",488:"b12f0725ccd87e3375ba",717:"d6d294835e28b0885bf1",748:"19a653253d640c90837b",818:"fca1522cf99c57430377",901:"4d96313e2b53bf699217",930:"6816c58a2bf4a3362832",946:"64e337e455cd73f6a017"}[e]+".css",d.g=function(){if("object"==typeof globalThis)return globalThis;try{return this||new Function("return this")()}catch(e){if("object"==typeof window)return window}}(),d.o=(e,t)=>Object.prototype.hasOwnProperty.call(e,t),e={},t="onoue-lab-2020:",d.l=(r,n,a,o)=>{if(e[r])e[r].push(n);else{var l,i;if(void 0!==a)for(var c=document.getElementsByTagName("script"),f=0;f<c.length;f++){var s=c[f];if(s.getAttribute("src")==r||s.getAttribute("data-webpack")==t+a){l=s;break}}l||(i=!0,(l=document.createElement("script")).charset="utf-8",l.timeout=120,d.nc&&l.setAttribute("nonce",d.nc),l.setAttribute("data-webpack",t+a),l.src=r),e[r]=[n];var u=(t,n)=>{l.onerror=l.onload=null,clearTimeout(b);var a=e[r];if(delete e[r],l.parentNode&&l.parentNode.removeChild(l),a&&a.forEach((e=>e(n))),t)return t(n)},b=setTimeout(u.bind(null,void 0,{type:"timeout",target:l}),12e4);l.onerror=u.bind(null,l.onerror),l.onload=u.bind(null,l.onload),i&&document.head.appendChild(l)}},d.r=e=>{"undefined"!=typeof Symbol&&Symbol.toStringTag&&Object.defineProperty(e,Symbol.toStringTag,{value:"Module"}),Object.defineProperty(e,"__esModule",{value:!0})},d.nmd=e=>(e.paths=[],e.children||(e.children=[]),e),d.p="/",r=e=>new Promise(((t,r)=>{var n=d.miniCssF(e),a=d.p+n;if(((e,t)=>{for(var r=document.getElementsByTagName("link"),n=0;n<r.length;n++){var a=(d=r[n]).getAttribute("data-href")||d.getAttribute("href");if("stylesheet"===d.rel&&(a===e||a===t))return d}var o=document.getElementsByTagName("style");for(n=0;n<o.length;n++){var d;if((a=(d=o[n]).getAttribute("data-href"))===e||a===t)return d}})(n,a))return t();((e,t,r,n)=>{var a=document.createElement("link");a.rel="stylesheet",a.type="text/css",a.onerror=a.onload=o=>{if(a.onerror=a.onload=null,"load"===o.type)r();else{var d=o&&("load"===o.type?"missing":o.type),l=o&&o.target&&o.target.href||t,i=new Error("Loading CSS chunk "+e+" failed.\n("+l+")");i.code="CSS_CHUNK_LOAD_FAILED",i.type=d,i.request=l,a.parentNode.removeChild(a),n(i)}},a.href=t,document.head.appendChild(a)})(e,a,t,r)})),n={666:0},d.f.miniCss=(e,t)=>{n[e]?t.push(n[e]):0!==n[e]&&{258:1,488:1,717:1}[e]&&t.push(n[e]=r(e).then((()=>{n[e]=0}),(t=>{throw delete n[e],t})))},(()=>{var e={666:0},t=[];d.f.j=(t,r)=>{var n=d.o(e,t)?e[t]:void 0;if(0!==n)if(n)r.push(n[2]);else if(/^(25|48)8$/.test(t))e[t]=0;else{var a=new Promise(((r,a)=>{n=e[t]=[r,a]}));r.push(n[2]=a);var o=d.p+d.u(t),l=new Error;d.l(o,(r=>{if(d.o(e,t)&&(0!==(n=e[t])&&(e[t]=void 0),n)){var a=r&&("load"===r.type?"missing":r.type),o=r&&r.target&&r.target.src;l.message="Loading chunk "+t+" failed.\n("+a+": "+o+")",l.name="ChunkLoadError",l.type=a,l.request=o,n[1](l)}}),"chunk-"+t,t)}},d.F.j=t=>{if(!(d.o(e,t)&&void 0!==e[t]||/^(25|48)8$/.test(t))){e[t]=null;var r=document.createElement("link");d.nc&&r.setAttribute("nonce",d.nc),r.rel="prefetch",r.as="script",r.href=d.p+d.u(t),document.head.appendChild(r)}};var r=e=>{},n=(n,a)=>{for(var o,l,[i,c,f,s]=a,u=0,b=[];u<i.length;u++)l=i[u],d.o(e,l)&&e[l]&&b.push(e[l][0]),e[l]=0;for(o in c)d.o(c,o)&&(d.m[o]=c[o]);for(f&&f(d),n&&n(a);b.length;)b.shift()();return s&&t.push.apply(t,s),r()},a=self.webpackChunkonoue_lab_2020=self.webpackChunkonoue_lab_2020||[];function o(){for(var r,n=0;n<t.length;n++){for(var a=t[n],o=!0,l=1;l<a.length;l++){var i=a[l];0!==e[i]&&(o=!1)}o&&(t.splice(n--,1),r=d(d.s=a[0]))}return 0===t.length&&(d.x(),d.x=e=>{}),r}a.forEach(n.bind(null,0)),a.push=n.bind(null,a.push.bind(a));var l=d.x;d.x=()=>(d.x=l||(e=>{}),(r=o)())})(),d.x()})();

diff --git a/main.f50adb57fa4b0c32ecf3.css b/main.f50adb57fa4b0c32ecf3.css
@@ -1,0 +1,1 @@
+:root{--color-white:#f5f5f5;--color-black:#333;--color-cyan:#7bb7fa}html{font-size:62.5%}body{background:#f5f5f5;background:var(--color-white);color:#333;color:var(--color-black)}code[class*=language-],pre[class*=language-]{font-size:2rem}a{color:#7bb7fa;color:var(--color-cyan)}ul{margin:0}li{margin:.5em}.avatar{width:200px}h1,h2,h3,h4,h5{margin:1em 0}figcaption{font-size:.6em;margin-top:1em;text-align:center}.flex-left{display:flex;flex-direction:column;align-items:flex-start}
